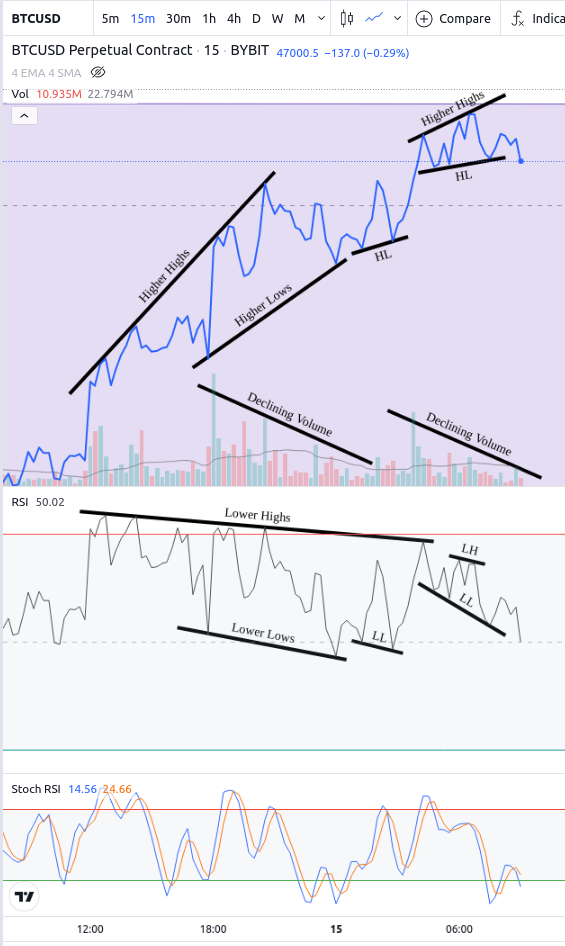
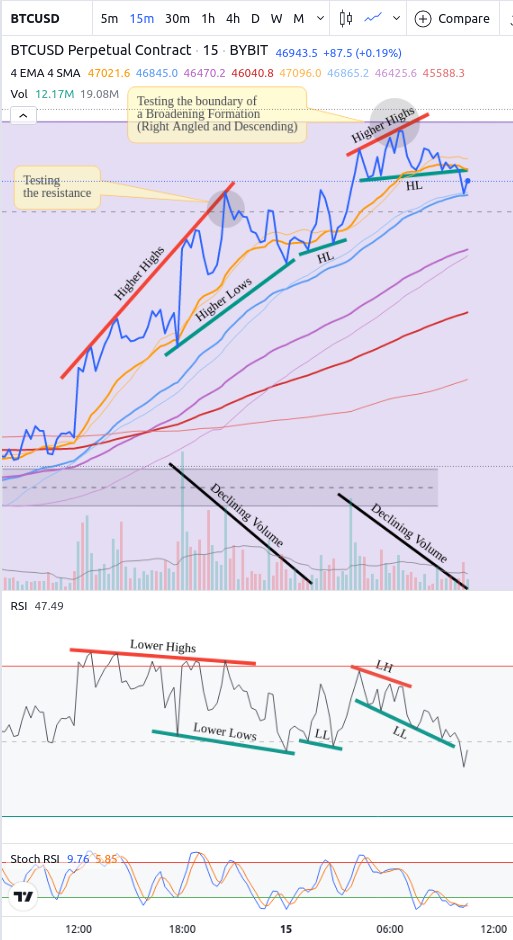
Refine steps for trading divergences

diff --git a/notes/RSI Divergences.md b/notes/RSI Divergences.md
@@ -256,19 +256,25 @@ The best setup is when only one of the 2 conditions hold true (not both).
 
 ##### Entry Strategy
 
-- When the RSI ==approaches 50 (confirm if it must be near 50?)== (not in OB/OS zone) start looking for a long signal if:
+- When the RSI is not in overbought ( possibly between 30 to 50) start looking for a long signal if:
 	- Price is in an `uptrend`.
-	- On the 1st swing down (a higher-low in price chart) RSI is ==around/above 50 (confirm if its a must have condition?)==.
+	- Price forms a `higher-low` (HL).
+	- On the 1st swing down (a higher-low in price chart) `RSI is not signaling overbought`.
+	- Price forms another `higher-low` (HL).
 	- On the 2nd swing down (a `higher-low in price chart`) `RSI crosses/is below 50`.
+	- The `HL X LL` criteria is satisfied!
 	- RSI shows a `hidden bullish divergence` (a `lower-low in RSI`) indicating the beginning of a new strong uptrend.
-	- RSI has `no regular bearish divergence` so nothing bearish.
+	- RSI has `no regular bearish divergence` thus far, so nothing bearish.
 	- Stochastic RSI was just signaling oversold and is now crossing above its 20 level.
 
 - When RSI signals overbought (>70) then plan to go short if:
 	- Price is in an `uptrend`.
-	- On the first swing high (in price chart) RSI moves into the overbought region (>30).
+	- Price forms a higher-high (HH).
+	- On the first swing high (in price chart) RSI moves into the overbought region (>70).
+	- Price froms another higher-high (HH).
 	- With the second swing high (in price chart) RSI shows `regular bearish divergence` indicating an uptrend reversal.
-	- RSI shows `no hidden bullish divergence` so no more bullishness.
+	- The `HH X LH` criteria is satisfied!
+	- RSI shows `no hidden bullish divergence` thus far, so no bullishness to act on.
 	- Stochastic RSI was just signaling overbought and is now crossing below its 80 level.
 
 ```
@@ -280,19 +286,25 @@ The best setup is when only one of the 2 conditions hold true (not both).
 	- Stochastic RSI was just signaling overbought and is now crossing above its 80 level.
 ```
 
-- When the RSI ==approaches 50 (confirm if must be near 50?)== (not in OB/OS zone) start looking for a short signal if:
+- When the RSI is not in oversold ( possibly between 70 to 50) start looking for a short signal if:
 	- Price is in a `downtrend`.
-	- On the 1st swing up (a lower-high in price chart) RSI is ==around/below 50 (confirm if its a must have condition?)==.
+	- Price forms a lower-high (LH).
+	- On the 1st swing up (a lower-high in price chart) `RSI is not signaling oversold`.
+	- Price forms another lower-high (LH).
 	- On the 2nd swing up (a `lower-high in price chart`) `RSI crosses/is above 50`.
+	- The `LH X HH` criteria is satisfied!
 	- RSI shows a `hidden bearish divergence` (a `higher-high in RSI`) indicating the beginning of a new strong downtrend.
-	- RSI has `no regular bullish divergence` so nothing bullish.
+	- RSI has `no regular bullish divergence` thus far, so nothing bullish.
 	- Stochastic RSI was just signaling overbought and is now crossing below its 80 level.
 
 - When RSI signals oversold (<30) then plan to go long if:
 	- Price is in a `downtrend`.
+	- Price forms a lower-low (LL).
 	- On the first swing down (in price chart) RSI moves into the oversold region (<30).
+	- Price forms another lower-low (LL).
 	- With the second swing low (in price chart) RSI shows `regular bullish divergence` indicating a downtrend reversal.
-	- RSI shows `no hidden bearish divergence` so no more bearishness.
+	- The `LL X HL` criteria is satisfied!
+	- RSI shows `no hidden bearish divergence` thus far, so no bearishness to act on.
 	- Stochastic RSI was just signaling oversold and is now crossing above its 20 level.
 
 ```
@@ -322,6 +334,10 @@ Exit the trade only when the RSI signals OB/OS (70/30) again.
 #### Conflicting Divergences
 
 When both conditions are true then its a conflict. Stay away; I need to work out what can be done on such instances. ==<--WIP==
+
+##### Regular Bearish Divergence followed by a Hidden Bullish Divergence.
+
+First follow the trading plan for trading regular bearish divergence while hidden divergence may be on its way (but not clearly evident). Once the hidden divergence clearly presents itself only then follow the plan for trading hidden divergence.
 
 ![[ConflictingBullishAndBearishDivergences.png]]
 
